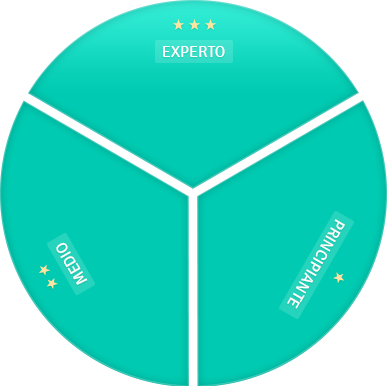
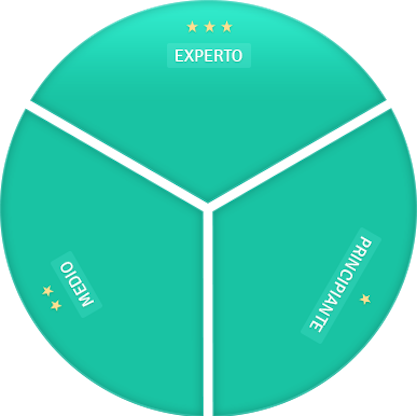
dial UI fixes

diff --git a/IrregularVerbs/HomeViewController.m b/IrregularVerbs/HomeViewController.m
@@ -53,7 +53,8 @@
     rv.rotatingViewDelegate = self;
     
     
-    [rv setCurrentSegment:[[VerbsStore sharedStore] currentFrequencyByGroup]];
+    //[rv setCurrentSegment:[[VerbsStore sharedStore] currentFrequencyByGroup]];
+    [rv setCurrentSegment:0];
     
     [[self bottomView] addSubview:rv];
     
@@ -64,37 +65,27 @@
     self.popupView.layer.rasterizationScale = [[UIScreen mainScreen] scale];
     
     [[self labelPopUp] setText:NSLocalizedString(@"InfoPopupHome", @"info about App at home")];
-    
-    UIImage *buttonImage = [[UIImage imageNamed:@"whiteButton.png"]
-                            resizableImageWithCapInsets:UIEdgeInsetsMake(18, 18, 18, 18)];
-    UIImage *buttonImageHighlight = [[UIImage imageNamed:@"whiteButtonHighlight.png"]
-                                     resizableImageWithCapInsets:UIEdgeInsetsMake(18, 18, 18, 18)];
-    
+
     UIFont* fontButton = [UIFont fontWithName:@"Signika" size:18];
     
     // Set the background for any states you plan to use
     [[self.buttonLearn imageView] setContentMode: UIViewContentModeScaleAspectFit];
-  
-    [self.buttonLearn setBackgroundImage:buttonImage forState:UIControlStateNormal];
-    [self.buttonLearn setBackgroundImage:buttonImageHighlight forState:UIControlStateHighlighted];
+ 
     [self.buttonLearn setTitle:NSLocalizedString(@"LearnLabel", nil) forState:UIControlStateNormal];
     self.buttonLearn.titleLabel.font = fontButton;
     
     [[self.buttonTest imageView] setContentMode: UIViewContentModeScaleAspectFit];
-    [self.buttonTest setBackgroundImage:buttonImage forState:UIControlStateNormal];
-    [self.buttonTest setBackgroundImage:buttonImageHighlight forState:UIControlStateHighlighted];
+ ;
     [self.buttonTest setTitle:NSLocalizedString(@"TestLabel", nil) forState:UIControlStateNormal];
     self.buttonTest.titleLabel.font = fontButton;
     
     [[self.buttonHistory imageView] setContentMode: UIViewContentModeScaleAspectFit];
-    [self.buttonHistory setBackgroundImage:buttonImage forState:UIControlStateNormal];
-    [self.buttonHistory setBackgroundImage:buttonImageHighlight forState:UIControlStateHighlighted];
+
     [self.buttonHistory setTitle:NSLocalizedString(@"HistoryLabel", nil) forState:UIControlStateNormal];
     self.buttonHistory.titleLabel.font = fontButton;
     
     [[self.buttonSetup imageView] setContentMode: UIViewContentModeScaleAspectFit];
-    [self.buttonSetup setBackgroundImage:buttonImage forState:UIControlStateNormal];
-    [self.buttonSetup setBackgroundImage:buttonImageHighlight forState:UIControlStateHighlighted];
+
     [self.buttonSetup setTitle:NSLocalizedString(@"SetupLabel", nil) forState:UIControlStateNormal];
     self.buttonSetup.titleLabel.font = fontButton;
     

diff --git a/IrregularVerbs/TestCardViewController.m b/IrregularVerbs/TestCardViewController.m
@@ -106,13 +106,6 @@
 
 - (void)viewDidAppear:(BOOL)animated {
     if (self.verb.testPending) [self beginTest];
-    
-    UIView * v1 = [UIApplication sharedApplication].keyWindow.rootViewController.view;
-    CGRect fr1 = [v1 frame];
-    
-    CGRect fr2 = [self view].frame;
-    [self view].frame = fr1;
-    self.view.bounds = v1.bounds;
 }
 
 - (void)viewWillDisappear:(BOOL)animated {
